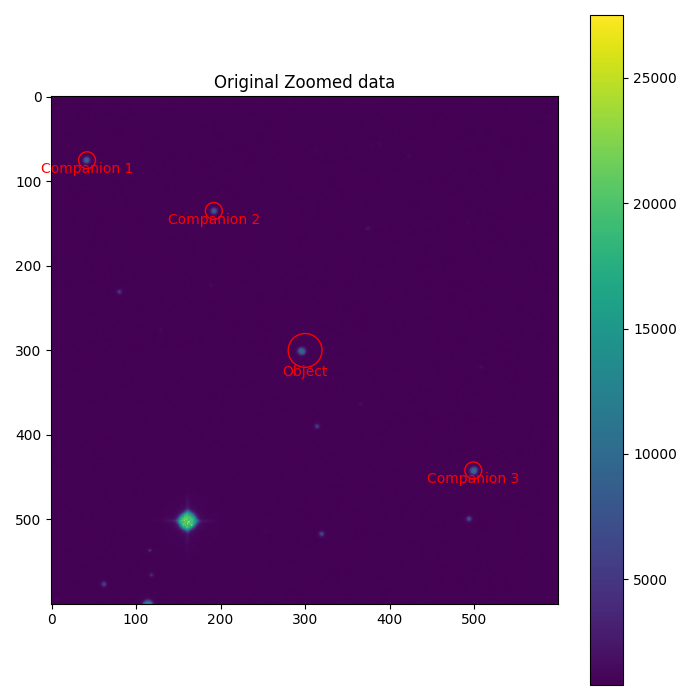
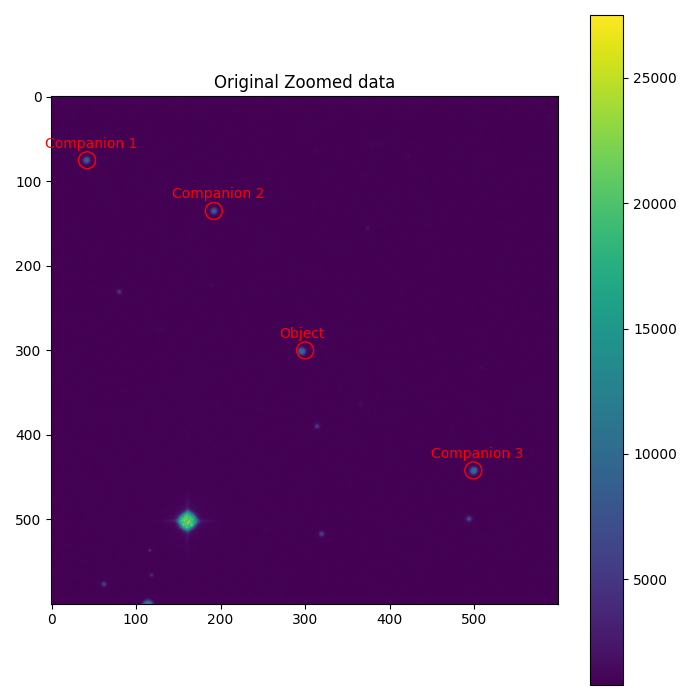
Add files via upload

diff --git a/Step3/18097/main.py b/Step3/18097/main.py
@@ -1,6 +1,8 @@
 from astropy.io import fits  
 import matplotlib.pyplot as plt  
 from matplotlib.patches import Circle  
+from astropy.io import fits
+import matplotlib.pyplot as plt
 import numpy as np
 from astropy.visualization import simple_norm
 from photutils.aperture import CircularAperture, aperture_photometry
@@ -24,9 +26,12 @@ class DataHandler:
         except Exception as e:  
             print(f"Error reading FITS file: {e}")  
             self.data = None  
+
+    # Calculate the line intersection
     def lin_interp(self,x, y, i, half):
         return x[i] + (x[i+1] - x[i]) * ((half - y[i]) / (y[i+1] - y[i]))
 
+    # Calculate the full width half maximum
     def half_max_x(self,x, y):
         half = max(y)/2.0
         signs = np.sign(np.add(y, -half))
@@ -35,6 +40,14 @@ class DataHandler:
         return [self.lin_interp(x, y, zero_crossings_i[0], half),
                 self.lin_interp(x, y, zero_crossings_i[1], half)]
     
+    # Draw a circle and label the objects on the map
+    def draw_circle_and_label(self, x, y, label,x_text_offset,y_text_offset, radius=10, color='red', ha='center'):  
+        circle = Circle((x, y), radius, color=color, fill=False)  
+        plt.gca().add_patch(circle)
+        plt.text(x-x_text_offset, y - y_text_offset, label, color='red')
+
+  
+
     def overview(self,object_positions):  
         if self.data is None:  
             print("No data available to display.")  
@@ -54,29 +67,11 @@ class DataHandler:
         plt.figure(figsize=(7, 7))  
         plt.imshow(zoomed_data, cmap='viridis')  
   
-        # Draw the red circle for Object
-        object_circle1 = Circle((self.object_x, self.object_y), 20, color='red', fill=False)
-        plt.gca().add_patch(object_circle1)
-        # Label Companion 1
-        plt.text(self.object_x, self.object_y + 30, 'Object', color='red', ha='center')
-
-        # Draw the red circle for Companion 1
-        companion_circle1 = Circle((self.com1_x, self.com1_y), 10, color='red', fill=False)
-        plt.gca().add_patch(companion_circle1)
-        # Label Companion 1
-        plt.text(self.com1_x, self.com1_y + 15, 'Companion 1', color='red', ha='center')
-
-        # Draw the red circle for Companion 2
-        companion_circle2 = Circle((self.com2_x, self.com2_y), 10, color='red', fill=False)
-        plt.gca().add_patch(companion_circle2)
-        # Label Companion 2
-        plt.text(self.com2_x, self.com2_y + 15, 'Companion 2', color='red', ha='center') 
+        self.draw_circle_and_label(self.object_x, self.object_y, 'Object', 30, 15)
+        self.draw_circle_and_label(self.com1_x, self.com1_y, 'Companion 1',50, 15)  
+        self.draw_circle_and_label(self.com2_x, self.com2_y, 'Companion 2',50, 15)  
+        self.draw_circle_and_label(self.com3_x, self.com3_y, 'Companion 3',50, 15) 
         
-        # Draw the red circle for Companion 3
-        companion_circle3 = Circle((self.com3_x, self.com3_y), 10, color='red', fill=False)
-        plt.gca().add_patch(companion_circle3)
-        # Label Companion 3
-        plt.text(self.com3_x, self.com3_y + 15, 'Companion 3', color='red', ha='center')
         plt.colorbar()
         plt.title("Original Zoomed data") 
         plt.tight_layout() 
@@ -178,13 +173,10 @@ class DataHandler:
         x_start2, x_end2, y_start2, y_end2 = com2_pos
         x_start3, x_end3, y_start3, y_end3 = com3_pos
 
-
-
         # Extract the zoomed-in region
         zoomed_data1 = self.data[y_start1:y_end1, x_start1:x_end1]
         zoomed_data2 = self.data[y_start2:y_end2, x_start2:x_end2]
         zoomed_data3 = self.data[y_start3:y_end3, x_start3:x_end3]
-
 
         # Sum the pixel values along the y-axis for each x-coordinate
         light_profile_x1 = np.sum(zoomed_data1, axis=0)
@@ -215,8 +207,6 @@ class DataHandler:
         normalization_factor3 = factor / peak_flux3
         normalized_light_profile_x3 = reduced_light_x3 * normalization_factor3
         x_coords3 = np.arange(0, light_profile_x3.shape[0])
-
-
 
         # Now create a plot to compare all four light profiles
         plt.figure(figsize=(10, 5))
